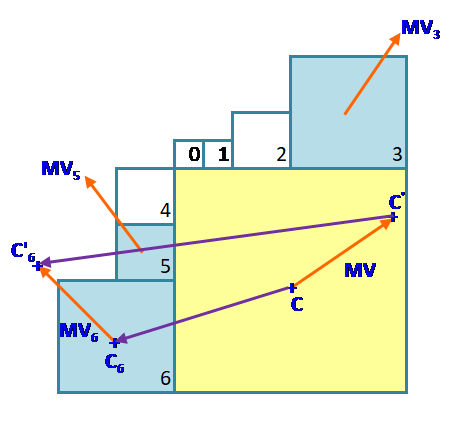
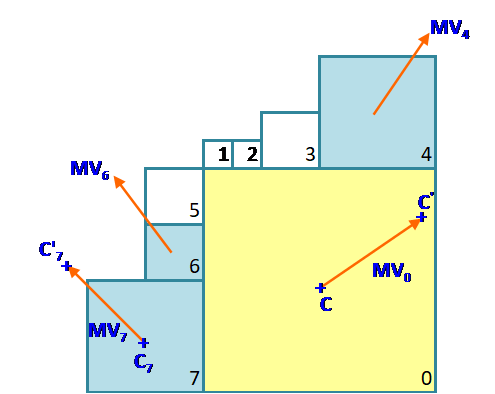
updating documentation for local warp motion compensation

Changed region(s): [[0.0, 0.0305, 0.9614, 1.0], [0.4807, 0.7005, 0.5708, 0.731], [0.691, 0.6701, 0.721, 0.7005]]

diff --git a/Docs/Appendix-Local-Warped-Motion.md b/Docs/Appendix-Local-Warped-Motion.md
@@ -1,11 +1,10 @@
-# Local Warped Motion Compensation Appendix
+# Local Warped Motion Compensation
 
 ## 1.  Description of the algorithm
 
-Warped motion modes are inter-prediction modes where the prediction
-is generated by applying an (affine) transform to the reference. AV1
-has two affine prediction modes: global warped motion and local
-warped motion (LW). The latter is discussed in more detail in the following.
+The warped motion mode is an inter-prediction mode where the prediction is generated by applying an (affine) transform to the
+reference. AV1 has two affine prediction modes: global warped motion and local warped motion (LW).
+The latter is discussed in more detail in the following.
 
 AV1 has three types of motion modes that specify the motion of a
 block, namely SIMPLE, OBMC and LW. LW motion estimation provides a description
@@ -13,10 +12,9 @@ of the type of local motion. Minimal signaling overhead
 is realized by signaling one flag in the inter block mode info, and
 that only under some conditions. LW cannot be combined with OBMC.
 
-Warped motion compensation concerns the estimation and compensation of small
-local motion for a given block. The feature makes use of motion vector information
-for neighboring blocks to extract the local motion model parameters. The general
-motion model for local warped motion is given by
+Warped motion compensation concerns the estimation and compensation of small local motion for a given block.
+The feature makes use of motion vector information for neighboring blocks to extract the affine local motion model parameters.
+The general motion model for local warped motion is given by
 
 ![local_warped_motion_math1](./img/local_warped_motion_math1.png)
 
@@ -28,13 +26,13 @@ translational model parameters ![latexmath](http://latex.codecogs.com/gif.latex?
 ![latexmath](http://latex.codecogs.com/gif.latex?\mathbf{h_{23}}), i.e. the rest of the model parameters are
 not signaled in the bitstream.
 
-To simplify the model estimation, ![latexmath](http://latex.codecogs.com/gif.latex?\mathbf{h_{13}}) and
-![latexmath](http://latex.codecogs.com/gif.latex?\mathbf{h_{23}}) are assumed to represent the entries in the
-current block motion vector (**MV** in the Figure 1 below).
+Model parameters ![latexmath](http://latex.codecogs.com/gif.latex?\mathbf{h_{13}}) and
+![latexmath](http://latex.codecogs.com/gif.latex?\mathbf{h_{23}})
+represent the entries in the current block motion vector ( ![latexmath](http://latex.codecogs.com/gif.latex?\mathbf{MV_0}) in Figure 1 below).
 
-Let **MV**=
+Let ![latexmath](http://latex.codecogs.com/gif.latex?\mathbf{MV_0}) =
 ![local_warped_motion_math6](./img/local_warped_motion_math6.png). Then the above implies ![local_warped_motion_math7](./img/local_warped_motion_math7.png). The remaining parameters ![latexmath](http://latex.codecogs.com/gif.latex?\mathbf{h_{11},h_{12},h_{21}}),
-and ![latexmath](http://latex.codecogs.com/gif.latex?\mathbf{h_{22}}) are estimated using a least squares approach.
+. The remaining parameters ![latexmath](http://latex.codecogs.com/gif.latex?\mathbf{h_{22}}) are estimated using a least squares approach.
 
 To illustrate the estimation of the parameters
 ![latexmath](http://latex.codecogs.com/gif.latex?\mathbf{h_{11},h_{12},h_{21}}) and
@@ -45,43 +43,37 @@ least squares approach, consider the example shown in Figure 1 below.
 
 ##### Figure 1. Current block in yellow is a 32x32 block. Neighboring blocks that refer to the same reference picture as the current block are in blue. MVs (in orange) for the current block and the blue blocks are used to infer the local warp motion of the yellow block.
 
-In the following, assume the x and y coordinates are specified with
-reference to the top left corner of the yellow block. Let
+Let
 ![math12](./img/local_warped_motion_math12.png) be the center of the current block, and
 ![math13](./img/local_warped_motion_math13.png) the projection of (C) onto the reference frame using
-the motion vector **MV** for the current block. According to the motion
+the motion vector ![latexmath](http://latex.codecogs.com/gif.latex?\mathbf{MV_0}) for the current block. According to the motion
 model:
 
 ![local_warped_motion_math14](./img/local_warped_motion_math14.png)
 
-For block 6, define ![local_warped_motion_math15](./img/local_warped_motion_math15.png) to be the center of block 6, and
-![local_warped_motion_math16](./img/local_warped_motion_math16.png) to be the projection of ![latexmath](http://latex.codecogs.com/gif.latex?C_6}) onto the reference
-frame using the mv ![latexmath](http://latex.codecogs.com/gif.latex?\mathbf{MV_6}) for block 6. Assuming the same
-motion model as above, it follows that:
+where the translational component ![local_warped_motion_math_new1](./img/local_warped_motion_math_new1.png) of the motion model would correspond to the motion vector
+![latexmath](http://latex.codecogs.com/gif.latex?\mathbf{MV_0}) for the current block. For block 7, define
+![local_warped_motion_math_new1](./img/local_warped_motion_math_new2.png) to be the center of block 7, and
+![local_warped_motion_math_new3](./img/local_warped_motion_math_new3.png) to be the projection of ![latexmath](http://latex.codecogs.com/gif.latex?\mathbf{C}) onto
+the reference frame using the motion vector ![latexmath](http://latex.codecogs.com/gif.latex?\mathbf{MV_7}) for block 7.
 
-![local_warped_motion_math18](./img/local_warped_motion_math18.png)
+The local warp transformation defines how the vector relating ![latexmath](http://latex.codecogs.com/gif.latex?\mathbf{C})
+and ![latexmath](http://latex.codecogs.com/gif.latex?\mathbf{C_7}) in the source frame is mapped into the vector relating 
+![latexmath](http://latex.codecogs.com/gif.latex?\mathbf{C^{\'}) and ![latexmath](http://latex.codecogs.com/gif.latex?\mathbf{C^{\'}_7}) in the reference frame.
 
-Taking the difference between the two equations above:
+![local_warped_motion_math_new4](./img/local_warped_motion_math_new4.png)
 
-![local_warped_motion_math19](./img/local_warped_motion_math19.png)
+In addition to block 7, considering blocks 6 and 4 results in the following:  
 
-The local warp transformation defines how the vector relating ![latexmath](http://latex.codecogs.com/gif.latex?C) and
-![latexmath](http://latex.codecogs.com/gif.latex?C_6) in the source frame is projected into the vector relating ![latexmath](http://latex.codecogs.com/gif.latex?C') and ![latexmath](http://latex.codecogs.com/gif.latex?C'_6) in the reference frame.
+![local_warped_motion_math_new5](./img/local_warped_motion_math_new5.png)
 
-![local_warped_motion_math23](./img/local_warped_motion_math23.png) = ![local_warped_motion_math24](./img/local_warped_motion_math24.png) where ![local_warped_motion_math25](./img/local_warped_motion_math25.png)
+Define ![local_warped_motion_math_new6](./img/local_warped_motion_math_new6.png). it follows that:
 
-The vectors ![local_warped_motion_math26](./img/local_warped_motion_math26.png) and
-![local_warped_motion_math23](./img/local_warped_motion_math23.png) are shown in purple in Figure 1.
-The steps above are then repeated for blocks 5 and 3. The least squares
-minimization problem is then broken into two estimation problems: One of the estimation problems is to determine
-the parameters ![local_warped_motion_math27](./img/local_warped_motion_math27.png) and the other is to estimate the parameters
-![local_warped_motion_math28](./img/local_warped_motion_math28.png) such that
+![local_warped_motion_math_new7](./img/local_warped_motion_math_new7.png)
 
-![latexmath](http://latex.codecogs.com/gif.latex?A_1H_1=B_1) and ![latexmath](http://latex.codecogs.com/gif.latex?A_2H_2=B_2)
-where the matrices ![latexmath](http://latex.codecogs.com/gif.latex?A_1,B_1,A_2) and ![latexmath](http://latex.codecogs.com/gif.latex?B_2)
-are constructed from the data above. The solutions to the least squares
-estimation problems are then given as
-![latexmath](http://latex.codecogs.com/gif.latex?H_1=({A_1}'A_1)^{-1}A_1B_1) and ![latexmath](http://latex.codecogs.com/gif.latex?H_2=({A_2}'A_2)^{-1}A_2B_2)
+Solving a least square estimation for ![local_warped_motion_math_new8](./img/local_warped_motion_math_new8.png) yields:
+
+![local_warped_motion_math_new9](./img/local_warped_motion_math_new9.png)
 
 For implementation purposes, the local warp transform is implemented as
 two shears: A horizontal shear and vertical shear. The model matrix H is
@@ -108,9 +100,8 @@ The shear parameters ![latexmath](http://latex.codecogs.com/gif.latex?\alpha,\be
 the horizontal and vertical shears are evaluated using 8-tap
 interpolation filters with ![latexmath](http://latex.codecogs.com/gif.latex?1/64^{th}) pel precision.
 
-The final warped motion model is applied on an 8x8 basis in the source
-frame. The predicted block is constructed by assembling the 8x8
-predicted warped blocks from the reference picture.
+The final warped motion model is applied on an 8x8 basis in the reference frame. The predicted block is constructed by
+assembling the 8x8 predicted warped blocks from the reference picture.
 
 ![local_warped_motion_fig2](./img/local_warped_motion_fig2.png)
 
@@ -122,31 +113,37 @@ neighboring blocks.
 
 ## 2.  Implementation of the algorithm
 
-**Control macros/flags**:
+**Control tokens/flags**:
 
 LW can be enabled/disabled at the sequence and the picture level as
 indicated in Table 1.
 
-##### Table 1. Control flags/tokens associated with the LW feature.
+##### Table 1. Control tokens/flags associated with the LW feature.
 
 | **Flag**                      | **Level (sequence/Picture)** | **Description**                            |
 | ----------------------------- | ---------------------------- | ------------------------------------------ |
-| \-local-warp                  | Config / Sequence            | Encoder configuration parameter to enable/disable LW |
-| allow\_warped\_motion         | Picture                      | Enable/disable LW                          |
+| enable_warped_motion          | Sequence                     | Encoder configuration parameter to allow/disallow LW in the encoding process  for the whole sequence.  |
+| allow\_warped\_motion         | Picture                      | Allow/disable LW at the picture level              |
+| wm\_ctrls                     | Super-block                  | Control the number of LW candidates to be considered in the mode decision.       |
 
 
 **Details of the implementation**
 
-As with other prediction mode candidates in the encoder, candidates
-for the LW mode are first injected into MD and then processed through
-several MD stages of RD optimization. A high-level diagram of the
-function calls relevant to the two main LW functions, namely
+Figure 3 below summarizes the data flow of the LW implementation.
+
+![local_warped_motion_fig_new1](./img/local_warped_motion_fig_new1.png)
+
+##### Figure 3. Data flow for the LW feature. 
+
+As with other prediction mode candidates in the encoder, candidates for the LW mode are first injected into MD and then processed
+through several MD stages of RD optimization.
+A high-level diagram of the function calls relevant to the two main LW functions, namely 
 ```inject_inter_candidates``` and ```warped_motion_prediction``` is given in
-Figure 3 below.
+Figure 4 below.
 
-![local_warped_motion_fig3](./img/local_warped_motion_fig3.png)
+![local_warped_motion_fig_new2](./img/local_warped_motion_fig_new2.png)
 
-##### Figure 3. Function calls relevant to the two main LW functions highlighted in blue.
+##### Figure 4. Function calls relevant to the two main LW functions highlighted in blue.
 
 The two main steps involved in the LW processing in MD, namely the
 injection of the LW candidates and the generation of the LW predictions
@@ -155,11 +152,11 @@ are outlined in the following.
 **Step 1: Injection of the LW candidates.**
 
 The injection is performed by the function ```inject_inter_candidates```.
-A diagram of the relevant function calls is given in Figure 4.
+A diagram of the relevant function calls is given in Figure 5.
 
-![local_warped_motion_fig4](./img/local_warped_motion_fig4.png)
+![local_warped_motion_fig_new3](./img/local_warped_motion_fig_new3.png)
 
-##### Figure 4. Continuation of Figure 3 with the function calls related to the injection of LW candidates.
+##### Figure 5. Continuation of Figure 3 with the function calls related to the injection of LW candidates.
 
 1.  Check if the current block has overlappable blocks above and/or to
     the left of the current block (```has_overlappable_candidates```).
@@ -211,17 +208,17 @@ A diagram of the relevant function calls is given in Figure 4.
                 (```is_affine_shear_allowed```).
 
     3.  If not discarded, the LW candidate is added to the RD
-        andidate list.
+        candidate list.
 
 **Step 2: Evaluation of the LW candidates in MD**
 
 The generation of the LW predictions in MD is performed using the
-function *warped\_motion\_prediction*. A diagram of the associated
-function call is shown in Figure 5 below.
+function ```warped\_motion\_prediction```. A diagram of the associated
+function call is shown in Figure 6 below.
 
-![local_warped_motion_fig5](./img/local_warped_motion_fig5.png)
+![local_warped_motion_fig_new4](./img/local_warped_motion_fig_new4.png)
 
-##### Figure 5. Continuation of Figure 3 with the function calls related to the evaluation of the LW predictions in MD.
+##### Figure 6. Continuation of Figure 4 with the function calls related to the evaluation of the LW predictions in MD.
 
 The steps involved in the generation and evaluation of the predictions
 are outlined below.
@@ -280,43 +277,36 @@ The main relevant function is warped_motion_prediction which is described above.
 
 ## 3.  Optimization of the algorithm
 
-The injection of the LW motion candidates is performed if the following is true:
-allow_warped_motion is set AND the block has overlappable candidates AND bwidth >= 8
-AND bheight >= 8 AND warped_motion_injection is set. The flag warped_motion_injection
-is set in signal_derivation_enc_dec_kernel_oq as shown in Table 2 below:
+The injection of the LW motion candidates is performed if the following is true: ```allow_warped_motion``` is set AND the block has
+overlappable candidates AND ```bwidth >= 8``` AND ```bheight >= 8``` AND enable flag (in the LW controls structure) is set to 1. 
 
-##### Table 2. warped_motion_injection as a function of encoder settings.
-| **PD_PASS**                    | **warped_motion_injection**             |
-| ------------------------------ | --------------------------------------- |
-| PD_PASS_0                      | 0                                       |
-| PD_PASS_1                      | 1                                       |
-| Otherwise                      | if sc_content_detected then 0, else 1   |
+The injection of LW candidates is not allowed for ```PD_PASS_0```.
 
-In mode decision, the picture-level flag allow_warped_motion is set in
-signal_derivation_mode_decision_config_kernel_oq as shown in Table 3 below.
+In mode decision, the picture-level flag wm_level controls the complexity-quality tradeoffs associated with the LW feature.
+The flag is set is set in ```signal_derivation_mode_decision_config_kernel_oq``` and control the LW optimization signals listed in
+Table 2 below.
 
+The wm_level is set to zero for Intra pictures or when ```error_resilient_mode``` is enabled or when ```frame_super-resolution``` is enabled. 
 
-##### Table 3. enable_wm setting as a function of encoder preset.
-
-![table3](./img/local_warped_motion_table3.png)
-
-The final setting for allow_warped_motion is determined as follows: allow_warped_motion =
-enable_wm AND not KEY_FRAME AND not INTRA_ONLY_FRAME and not error_resilient_mode.
-
+##### Table 2. Optimization signals associated with the LW feature.
+|**Signal**|**Level**|**Description**|
+|--- |--- |--- |
+|enabled|Super-block|Allow/disallow the injection of LW candidates|
+|use_wm_for_mvp|Super-block|Allow/disallow the injection of MVP-based LW candidates|
+|num_new_mv_refinement|Super-block|Define the number of refinement positions around the NEW_MVs [0..12]|
 
 ## 4.  Signaling
 
-The configuration flag *enable\_local\_warp\_flag* controls the
-encoder use of LW at the sequence level. At frame level, the use of
-LW is controlled by *allow\_warped\_motion*. At the block level, the
-use of LW is signaled by the syntax element *motion\_mode,* which
-indicates the type of motion for a block: simple translation, OBMC,
-or warped motion.
+The configuration flag ```enable_local_warp_flag``` controls the encoder use of LW at the sequence level.
+At the frame level, the use of LW is controlled by ```allow_warped_motion```. At the block level, the use of LW is signaled by the syntax element ```motion_mode```,
+which indicates the type of motion for a block: simple translation, OBMC, or warped motion.
 
 ## Notes
 
-The feature settings that are described in this document were compiled at v0.8.3 of the code and may not reflect the current status of the code. The description in this document represents an example showing  how features would interact with the SVT architecture. For the most up-to-date settings, it's recommended to review the section of the code implementing this feature.
-
+The feature settings that are described in this document were compiled at v0.8.3 of the code and may not reflect the current status of the code. The description in this document represents an example showing how features would interact with the SVT architecture. For the most up-to-date settings, it's recommended to review the section of the code implementing this feature.
 ## Reference
 [1] Sarah Parker, Yue Chen, David Barker, Peter de Rivaz, Debargha Mukherjee,
 “Global and Locally Adaptive Warped Motion Compensation in Video Compression,”  IEEE International Conference on Image Processing (ICIP), pp. 275-279, 2017.
+
+[2] Jingning Han, Bohan Li, Debargha Mukherjee, Ching-Han Chiang, Adrian Grange, Cheng Chen, Hui Su, Sarah Parker, Sai Deng, Urvang Joshi, Yue Chen, Yunqing Wang, Paul Wilkins, Yaowu Xu, James  Bankoski,
+“A Technical Overview of AV1,” Proceedings of the IEEE, vol. 109, no. 9, pp. 1435-1462, Sept. 2021. 
